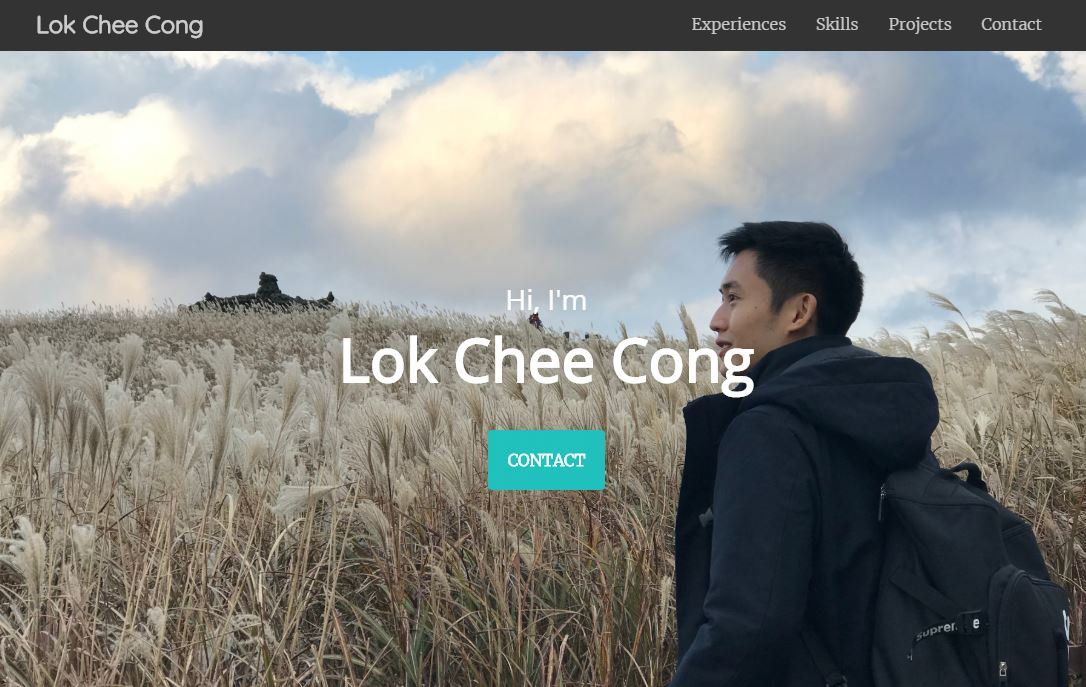
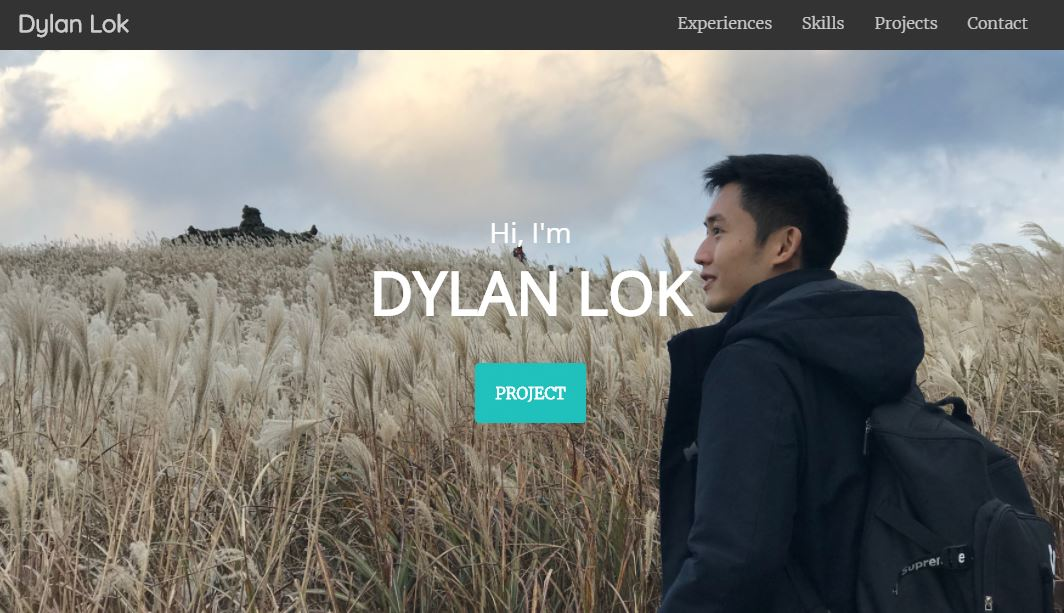
Add Projects and css animations
Add animations at the projects part when hovering.

diff --git a/index.html b/index.html
@@ -28,7 +28,7 @@
     <div class="hero-content-area">
       <h3>Hi, I'm</h3>
       <h1>DYLAN LOK</h1>
-      <a href="#contact" class="btn">Contact</a>
+      <a href="#projects" class="btn">Projects</a>
     </div>
   </section>
 
@@ -175,6 +175,18 @@
         <p>Learn about CSS3 Transitions, Transforms, and Animations, AJAX, building Node.js APIs, building Single Page Applications, OOP in JavaScript, D3, SVG, React, React-Router, Redux.</p>
         <a href="https://www.udemy.com/course/the-advanced-web-developer-bootcamp/" class="btn btn-progress" target="_blank">In Progress...</a>
       </li>
+      <li>
+        <div class="logo" style="background-image: url(assets/img/JsDataStructure-logo.jpg);"></div>
+        <a href="https://www.udemy.com/course/js-algorithms-and-data-structures-masterclass/" target="_blank">JavaScript Algorithms and Data Structures Masterclass</a>
+        <p>Learn about Big O notation, Recursion, Sorting algorithms such as bubble, selection, insertion, quick, merge, and radix sort. Next, learn about data structures from scratch, including linked lists, trees, heaps, hash tables, and graphs. It cover famous Dijkstra's Shortest Path Algorithm and Dynamic Programming.</p>
+        <a href="https://www.udemy.com/certificate/UC-24901e24-d32c-4e1a-bf05-663848049d09/" class="btn btn-completed" target="_blank">Completed</a>
+      </li>
+      <li>
+        <div class="logo" style="background-image: url(assets/img/ModernJsBootcamp-logo.jpg);"></div>
+        <a href="https://www.udemy.com/course/javascript-beginners-complete-tutorial/" target="_blank">The Modern JavaScript Bootcamp Course</a>
+        <p>Learn about the updated modern JavaScript. Start from basic, to design of the structure of the code, practical skills around higher-order functions and ways to increase the performance of JS code. At the end of this course will walk you building a fully-featured E-Commerce application form scratch.</p>
+        <a href="https://www.udemy.com/course/the-advanced-web-developer-bootcamp/" class="btn btn-progress" target="_blank">In Progress...</a>
+      </li>
     </ul>
   </section>
 
@@ -191,15 +203,42 @@
     <ul class="grid">
       <li>
         <a href="#">
-          <div class="logo" style="background-image: url(assets/img/project-resume.jpg);"></div>
+          <div class="logo green">
+            <img src="assets/img/project-resume.jpg"/>
+            <i class="fa fa-camera-retro"></i>
+          </div>
         </a>
         <a href="https://github.com/Lok-CC/resume" target="_blank"><i class="fa fa-github-square fa-3x" aria-hidden="true"></i> Resume</a>
       </li>
+
       <li>
         <a href="https://simple-doggie-blog.herokuapp.com/blogs" target="_blank">
-          <div class="logo" style="background-image: url(assets/img/project-restfulBlogApp.jpg);"></div>
+          <div class="logo red">
+            <img src="assets/img/project-restfulBlogApp.jpg"/>
+            <i class="fa fa-paw"></i>
+          </div>
         </a>
-        <a href="https://github.com/Lok-CC/restfulBlogApp" target="_blank"><i class="fa fa-github-square fa-3x" aria-hidden="true"></i> Restful Blog</a>
+        <a href="https://github.com/Lok-CC/restfulBlogApp" target="_blank"><i class="fa fa-github-square fa-3x" aria-hidden="true"></i> Express Restful Blog</a>
+      </li>
+
+      <li>
+        <a href="https://github.com/Lok-CC/JavaScriptDataStructures" target="_blank">
+          <div class="logo blue">
+            <img src="assets/img/BinarySearchTree.jpg"/>
+            <i class="fa fa-tree"></i>
+          </div>
+        </a>
+        <a href="https://github.com/Lok-CC/JavaScriptDataStructures" target="_blank"><i class="fa fa-github-square fa-3x" aria-hidden="true"></i> Data Structures</a>
+      </li>
+
+      <li>
+        <a href="https://github.com/Lok-CC/D3" target="_blank">
+          <div class="logo grey">
+            <img src="assets/img/ScatteredChart.jpg"/>
+            <i class="fa fa-bar-chart"></i>
+          </div>
+        </a>
+        <a href="https://github.com/Lok-CC/D3" target="_blank"><i class="fa fa-github-square fa-3x" aria-hidden="true"></i> D3 Projects</a>
       </li>
     </ul>
   </section>

diff --git a/assets/css/build/styles.css b/assets/css/build/styles.css
@@ -1,3 +1,4 @@
+/* Autoprefixer with Grunt */
 /* General Styles */
 * {
   margin: 0;
@@ -205,7 +206,7 @@ header nav li {
 }
 
 .hero a.btn {
-  padding: 20px;
+  padding: 20px 50px;
 }
 
 .hero-content-area {
@@ -440,6 +441,79 @@ header nav li {
   background-repeat: no-repeat;
   background-clip: padding-box;
   background-position: top;
+}
+
+.projects div.logo img{
+  max-width: 100%;
+  vertical-align: top;
+  height: 250px;
+}
+
+.projects div.logo i{
+  position: relative;
+  bottom: 60%;
+  border-radius: 50%;
+  font-size: 34px;
+  color: #000000;
+  width: 60px;
+  height: 60px;
+  line-height: 60px;
+  background: #ffffff;
+}
+
+.projects div.logo.green {
+  background-color: #16a085;
+}
+
+.projects div.logo.green i {
+  color: #16a085;
+}
+
+.projects div.logo.red {
+  background-color: #e74c3c;
+}
+
+.projects div.logo.red i {
+  color: #e74c3c;
+}
+
+.projects div.logo.blue {
+  background-color: #2879f3;
+}
+
+.projects div.logo.blue i {
+  color: #2879f3;
+}
+
+.projects div.logo.grey {
+  background-color: #34495e;
+}
+
+.projects div.logo.grey i {
+  color: #34495e;
+}
+
+/* add another logo and color here */
+
+.projects div.logo:hover img{
+  opacity: 0.3;
+  filter: grayscale(100%);
+}
+
+.projects div.logo *{
+  transition: all .35s ease-in-out;
+}
+
+.projects div.logo i {
+  -ms-transform: scale(0);
+      transform: scale(0);
+  transition: transform 300ms 0ms cubic-bezier(0.6, -0.28, 0.735, 0.045);
+}
+
+.projects div.logo:hover i {
+  -ms-transform: scale(1);
+      transform: scale(1);
+  transition: transform 300ms 100ms cubic-bezier(0.175, 0.885, 0.32, 1.275);
 }
 
 @media (max-width: 900px) {

diff --git a/assets/css/styles.css b/assets/css/styles.css
@@ -193,7 +193,7 @@ header nav li {
 }
 
 .hero a.btn {
-  padding: 20px;
+  padding: 20px 50px;
 }
 
 .hero-content-area {
@@ -413,6 +413,77 @@ header nav li {
   background-repeat: no-repeat;
   background-clip: padding-box;
   background-position: top;
+}
+
+.projects div.logo img{
+  max-width: 100%;
+  vertical-align: top;
+  height: 250px;
+}
+
+.projects div.logo i{
+  position: relative;
+  bottom: 60%;
+  border-radius: 50%;
+  font-size: 34px;
+  color: #000000;
+  width: 60px;
+  height: 60px;
+  line-height: 60px;
+  background: #ffffff;
+}
+
+.projects div.logo.green {
+  background-color: #16a085;
+}
+
+.projects div.logo.green i {
+  color: #16a085;
+}
+
+.projects div.logo.red {
+  background-color: #e74c3c;
+}
+
+.projects div.logo.red i {
+  color: #e74c3c;
+}
+
+.projects div.logo.blue {
+  background-color: #2879f3;
+}
+
+.projects div.logo.blue i {
+  color: #2879f3;
+}
+
+.projects div.logo.grey {
+  background-color: #34495e;
+}
+
+.projects div.logo.grey i {
+  color: #34495e;
+}
+
+/* add another logo and color here */
+
+.projects div.logo:hover img{
+  opacity: 0.3;
+  filter: grayscale(100%);
+}
+
+.projects div.logo *{
+  transition: all .35s ease-in-out;
+}
+
+.projects div.logo i {
+  transform: scale(0);
+  transition: transform 300ms 0ms cubic-bezier(0.6, -0.28, 0.735, 0.045);
+}
+
+.projects div.logo:hover i {
+  transform: scale(1);
+  transition: transform 300ms 100ms cubic-bezier(0.175, 0.885, 0.32, 1.275);
 }
 
 @media (max-width: 900px) {
